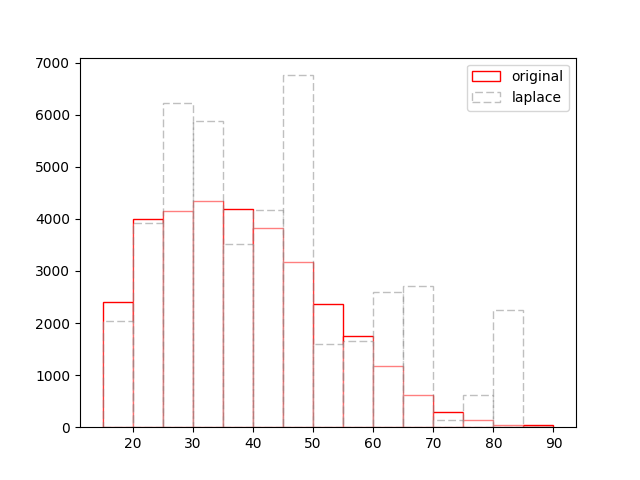
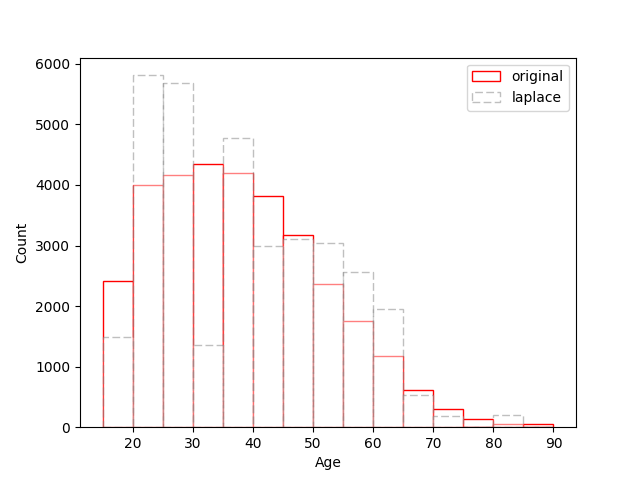
modified

diff --git a/differential_privacy.py b/differential_privacy.py
@@ -17,6 +17,8 @@ def plot_laplace(epsilon, original_count, fig_name, scalar):
     pyplot.bar(scalar, original_count, width=5, alpha = 1, label = 'original', color = "white", edgecolor = "red",linestyle = '-')
     pyplot.bar(scalar, count_laplace, width=5, alpha = 0.5, label = 'laplace',color = "white", edgecolor = "grey",linestyle = '--' )
     pyplot.legend(loc='upper right')
+    pyplot.xlabel('Age')
+    pyplot.ylabel('Count')
     pyplot.savefig(fig_name)
     pyplot.show()
 
